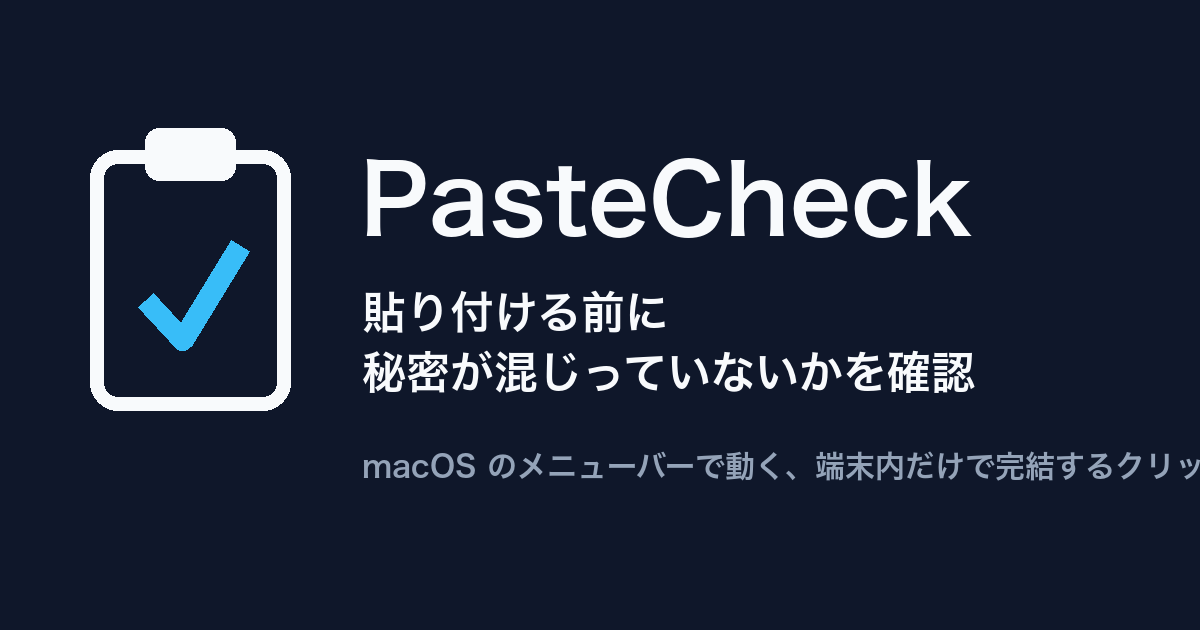
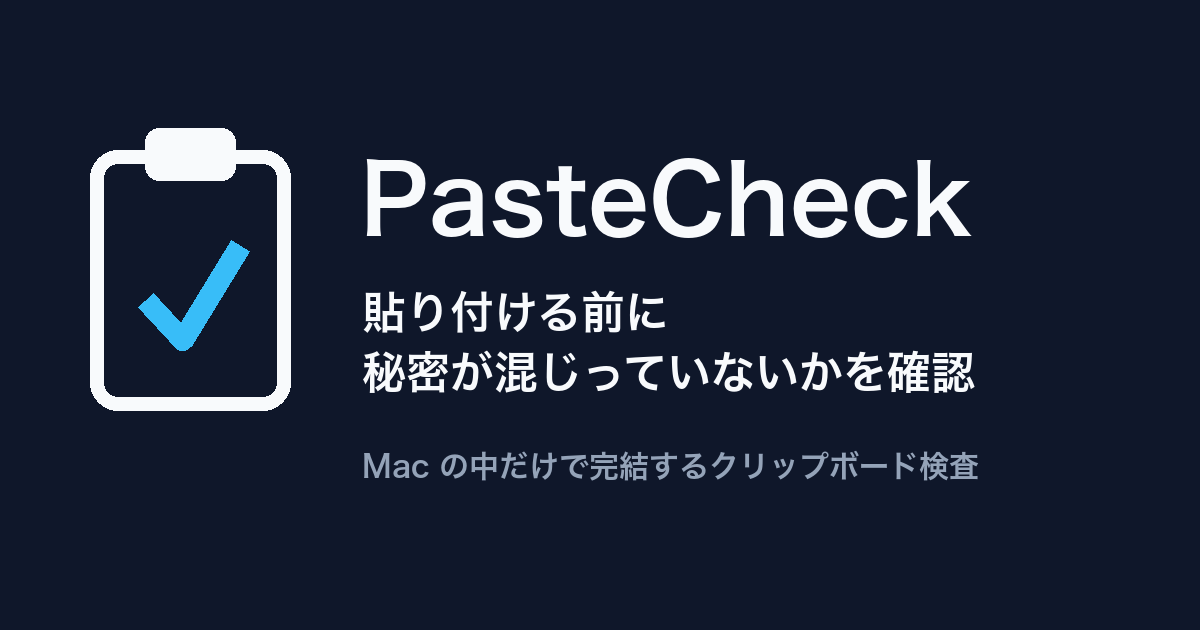
fix: 代替レビュー (CodeRabbit 上限) の指摘に対応する
- 法務文書: アプリ削除後に設定のコンテナフォルダが残り得ることを書き、削除先を示す。公開サイト・法務文書が開発中の設計に基づくことを明記 (DIRECTION.md「決めたこと」に記録)
- OGP 画像: 3 行目が右端で切れていたため短くして再生成
- Swift: PasteCheckApp と Finding のプロパティに doc comment を足す
- AGENTS.md: 検証コマンドの表に make macos-debug を足す

Claude-Session: https://claude.ai/code/session_011ziFnfeFJdGwp6QfumAmyD

Changed region(s): [[0.3083, 0.6937, 1.0, 0.7841]]

diff --git a/docs/index.html b/docs/index.html
@@ -96,7 +96,7 @@
       <h1>貼り付ける前に<br>秘密が混じっていないかを確認</h1>
       <p class="lede">コピーしたテキストや画像に API キー・トークン・秘密鍵・カード番号らしき文字列が混じっていたら、PasteCheck がメニューバーから警告します。AI チャットや Slack に貼ってしまう前に気づけます。検査は Mac の中で完結し、クリップボードの内容はどこにも送られません。</p>
       <div class="cta-row">
-        <span class="cta disabled" aria-disabled="true">配布の準備中</span>
+        <span class="cta disabled" aria-disabled="true">開発中 (配布の準備ができたらここに置きます)</span>
         <a class="cta secondary" href="#support">お問い合わせ</a>
       </div>
       <div class="alert-demo" role="img" aria-label="警告の例">

diff --git a/PasteCheckCore/Sources/PasteCheckCore/SecretDetector.swift b/PasteCheckCore/Sources/PasteCheckCore/SecretDetector.swift
@@ -10,9 +10,12 @@ public enum SecretDetector {
     }
 }
 
-/// 機密情報の検出 1 件。
+/// 機密情報の検出 1 件。警告に出してよいのは `kind` と `range` から導く位置情報だけで、
+/// 一致した文字列そのものは持たない (`.claude/rules/clipboard-content-handling.md`)。
 public struct Finding: Equatable, Sendable {
+    /// 検出の種類。値は `SecretDetector` が定義する識別子 (例: `private-key`) で、検出ルールを足す時に増やす。
     public let kind: String
+    /// 検査した文字列の中で一致した範囲。
     public let range: Range<String.Index>
 
     public init(kind: String, range: Range<String.Index>) {

diff --git a/PasteCheck/PasteCheckApp.swift b/PasteCheck/PasteCheckApp.swift
@@ -1,5 +1,7 @@
 import SwiftUI
 
+/// メニューバーだけに常駐するアプリの入口。ウィンドウは持たず (Info.plist の LSUIElement)、
+/// クリップボードの監視と警告はメニューバーから操作する。
 @main
 struct PasteCheckApp: App {
     var body: some Scene {

diff --git a/docs/support.md b/docs/support.md
@@ -8,7 +8,7 @@ permalink: /support/
 
 # サポート
 
-PasteCheck は、クリップボードにコピーしたテキストや画像に機密情報らしき文字列が混じっていないかを Mac の中で検査し、貼り付ける前に警告するメニューバーアプリです。このページでは、よくある質問と提供者への連絡方法を案内します。
+PasteCheck は、クリップボードにコピーしたテキストや画像に機密情報らしき文字列が混じっていないかを Mac の中で検査し、貼り付ける前に警告するメニューバーアプリです。このページでは、よくある質問と提供者への連絡方法を案内します。本アプリは開発中で、このページの機能の説明は最初の公開版に入れる予定の内容です。
 
 ## お問い合わせ
 
@@ -34,7 +34,7 @@ PasteCheck は、クリップボードにコピーしたテキストや画像に
 
 ### データを削除するには
 
-PasteCheck のデータは設定だけで、アプリを削除すると一緒に削除されます。
+PasteCheck のデータは設定だけで、アプリのコンテナフォルダ (`~/Library/Containers/com.bannzai.PasteCheck/`) にあります。アプリを削除した後も残ることがあるため、完全に消す時はこのフォルダを削除してください。
 
 ## プライバシー
 

diff --git a/documents/DIRECTION.md b/documents/DIRECTION.md
@@ -54,6 +54,7 @@ MVP (構想の判断で bannzai が過不足を決める一覧。要件の本文
 | 2026-10-10 | 立ち上げ | 文書・コメントの言語は、配信先が決まるまで日本語 (OSS として公開することになったら英語に切り替える) | agent |
 | 2026-10-10 | 立ち上げ | 立ち上げ時の署名は全 configuration で ad-hoc にし、配布用の署名は配信先が決まってから足す | agent |
 | 2026-10-10 | 立ち上げ | 動作確認はこのマシンではなく GitHub Actions の macOS runner (CI)・simtunnel (画面)・webtunnel (公開サイト) で行う | bannzai (立ち上げの依頼文) |
+| 2026-10-10 | 立ち上げ | 公開サイトと法務文書は、最初の公開版の設計 (PROJECT.md) に基づく内容を「開発中」と明記して先に公開し、公開時に実装と照らして更新する | agent |
 
 ## agent に任せること
 

diff --git a/AGENTS.md b/AGENTS.md
@@ -20,6 +20,7 @@
 | `make build-macos` | macOS アプリのビルド (`-derivedDataPath tmp/DerivedData`) | PR の CI (`.github/workflows/ci.yml`、`macos-26` runner)。push して `gh pr checks <PR番号> --watch` で結果を見る。失敗は `gh run view <run ID> --log-failed` でログを読む |
 | `make test` | `PasteCheckCore` のユニットテスト (`swift test`)。検出ルールの純粋ロジックはここに置く | CI。ローカルでも可 (数秒で終わる) |
 | `make macos` | Release ビルドを `/Applications/PasteCheck.app` に配置する | ユーザーが手元で普段使いする時だけ |
+| `make macos-debug` | Debug ビルドを同じ場所に上書き配置する (Debug にしか無い操作を使う時だけ。終わったら `make macos` で戻す) | 同上 |
 
 ### 画面の確認 (simtunnel)
 
